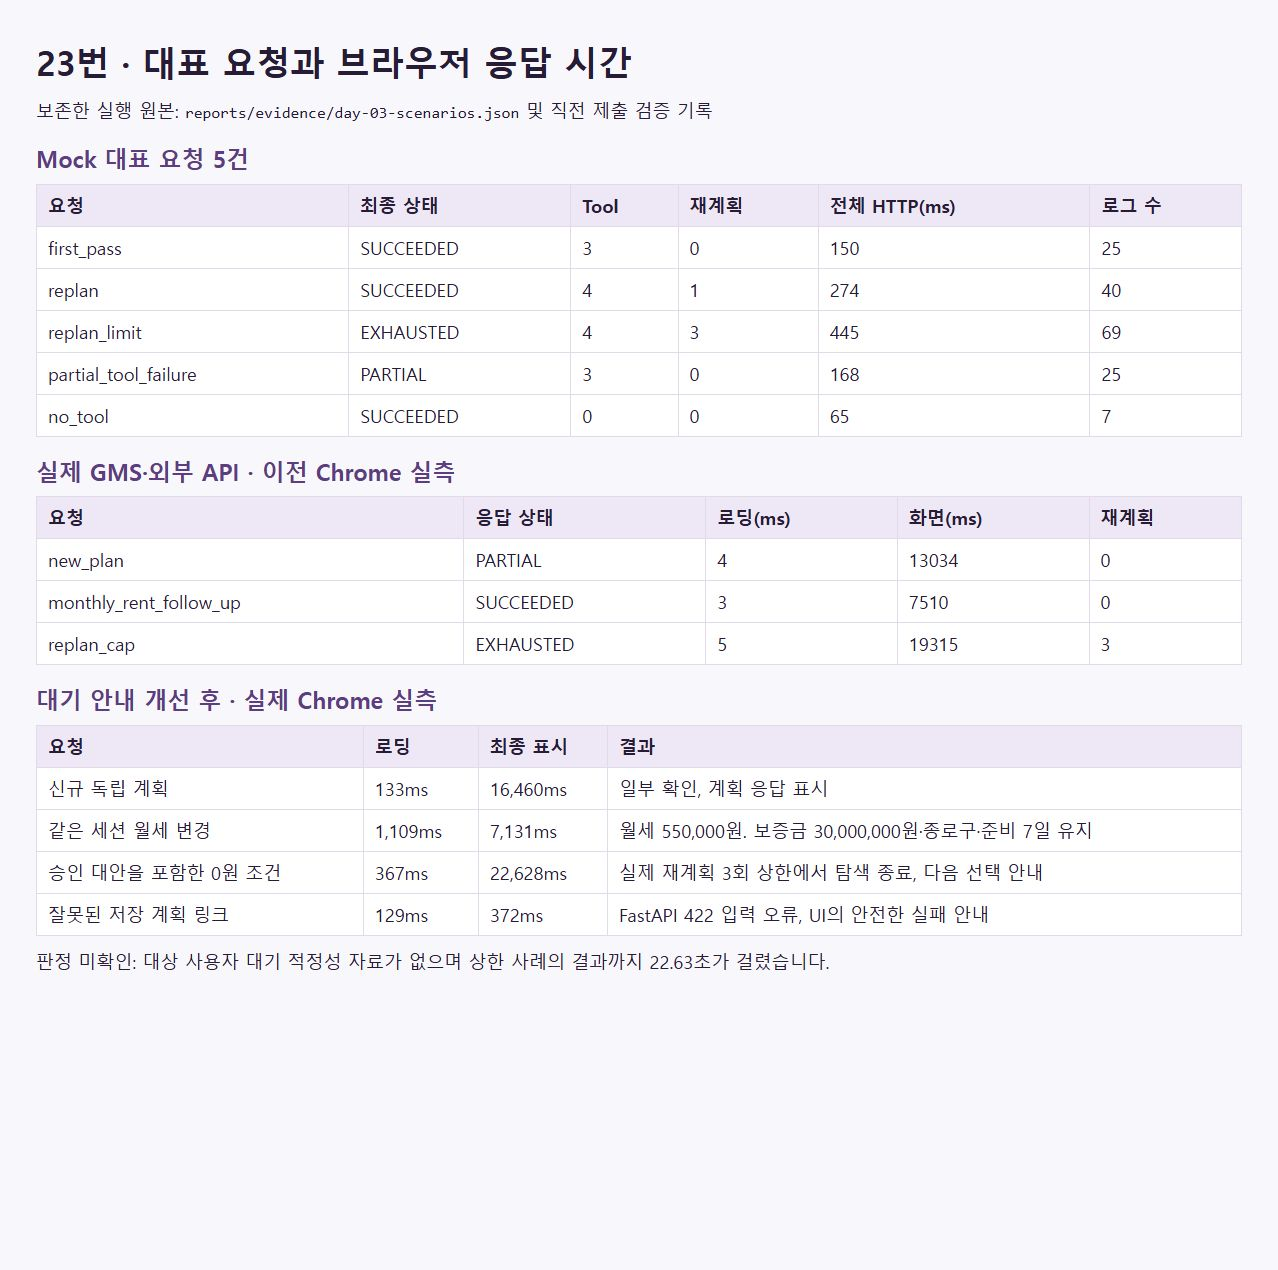
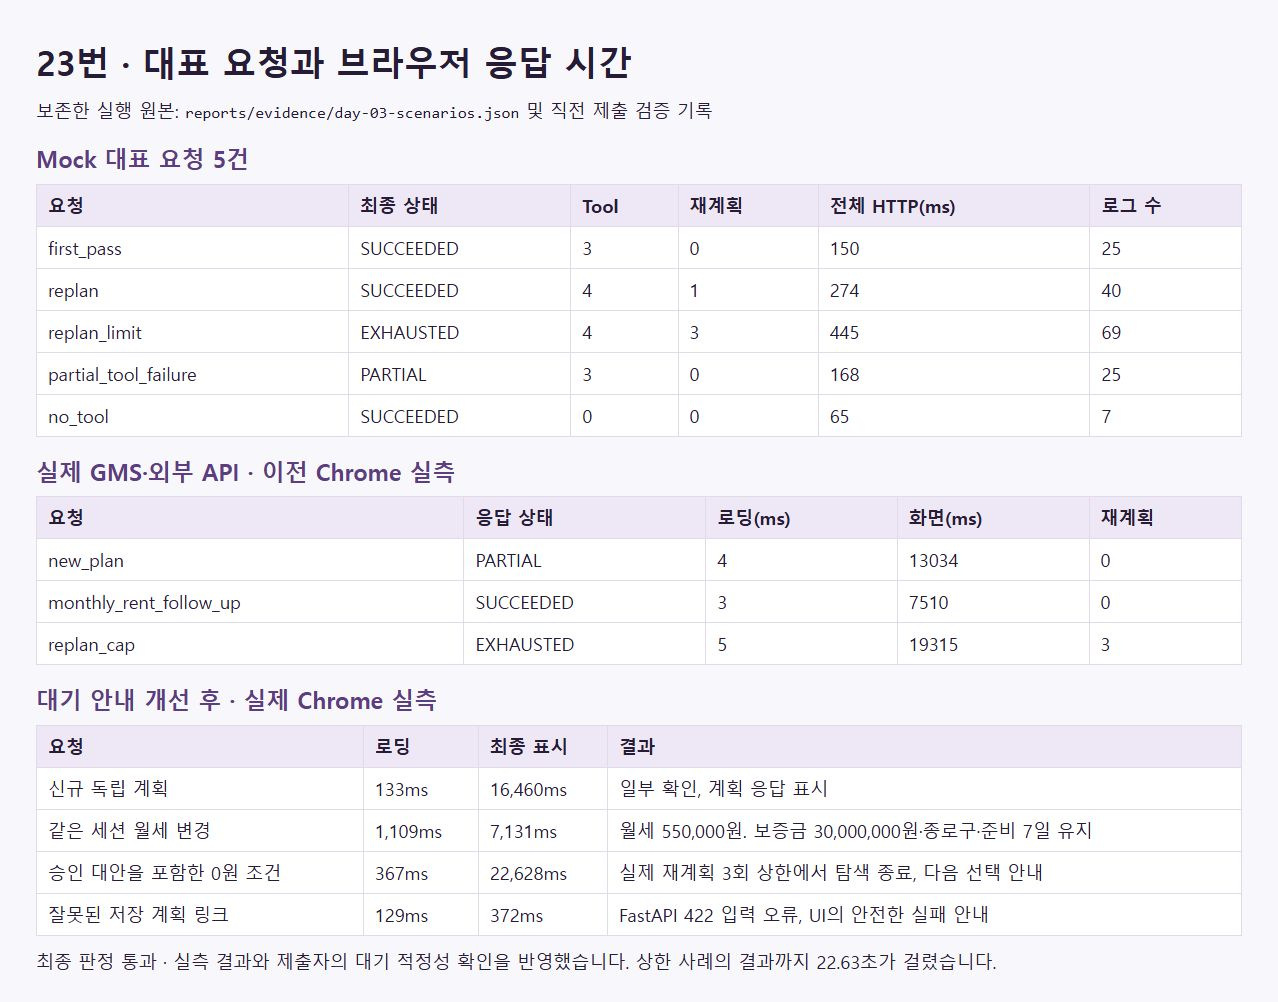
update: checklist 23 27

diff --git a/README.md b/README.md
@@ -95,7 +95,7 @@ npm.cmd --prefix frontend run dev
 
 ## 검증 및 제출 자료
 
-- [공식 셀프 체크리스트](셀프체크리스트.xlsx) · 필수 25/27, F3020 통과, 미확인 23번(사용자 대기 적정성)·27번(공식 기획 검증 시각)
+- [공식 셀프 체크리스트](셀프체크리스트.xlsx) · 필수 27/27, F3020 통과, 미확인 0개. 23·27번은 제출자가 직접 확인했습니다.
 - [통합 검증 결과](reports/verification.md) · [요구사항 추적·Agent 설계·API 명세](YKP_codex_handoff_v1/docs/ARCHITECTURE_AND_SCHEMA_v1.md) · [Tool 정의](reports/evidence/phase-01-tool-specs.json)
 - [대표 시나리오 5건과 전체 로그](reports/evidence/day-03-scenarios.json) · [API 화면](reports/evidence/checklist-docs.png) · [구현 소스](backend/app/) · [Vue 소스](frontend/src/)
 
